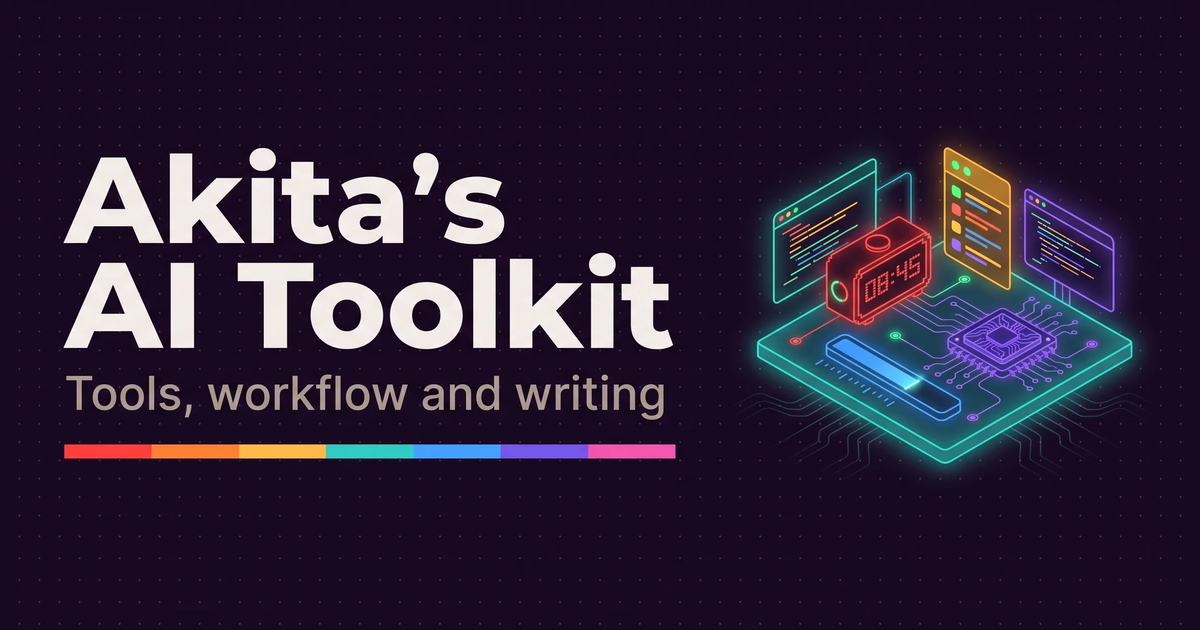
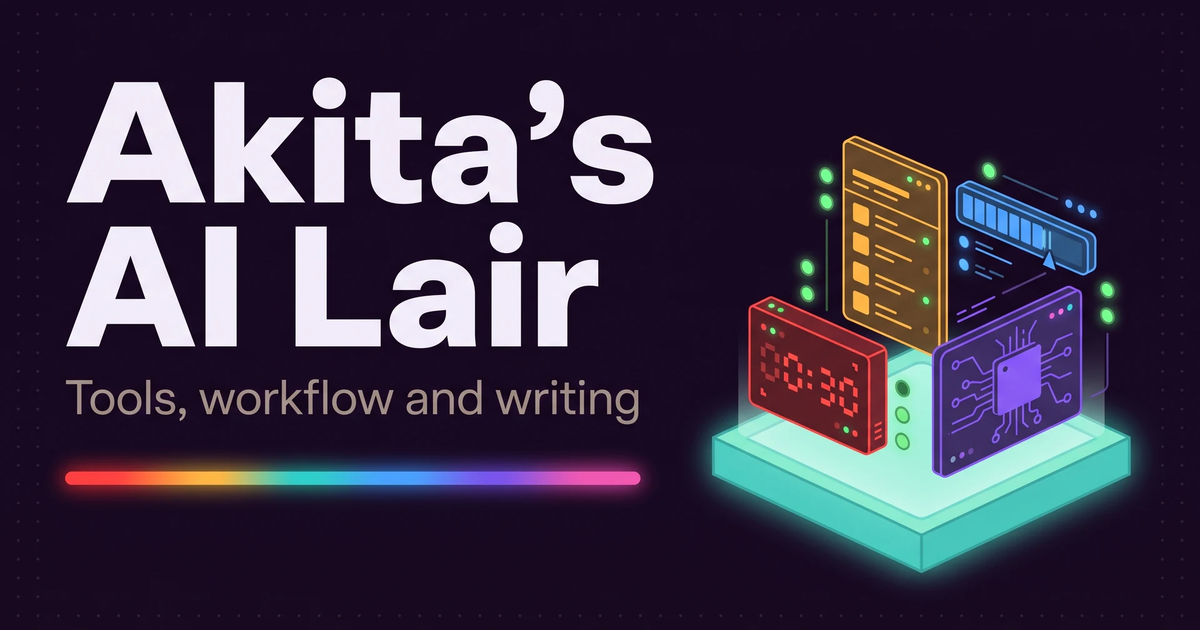
Rename to Akita's AI Lair at ailair.akitaonrails.com
Wordmark, titles, share card, structured data, robots.txt and docs. The
hero kicker: "A lair with the doors open". netlify.toml redirects the old
aitoolkit.akitaonrails.com host with a 301 (keep it as a domain alias).
Also in: Portuguese paths for every linked blog post (i18n prep).

diff --git a/src/data/articles.ts b/src/data/articles.ts
@@ -2,45 +2,50 @@
 // the address, date and subject stay here. Every address is the English edition on akitaonrails.com.
 import type { Hue } from './site';
 
-export interface Article { id: string; path: string; date: string; hue: Hue }
+export interface Article { id: string; path: string; ptPath?: string; date: string; hue: Hue }
 
 const blog = 'https://akitaonrails.com';
-export const articleUrl = (a: Article) => `${blog}${a.path}`;
+/** The blog publishes every post in English (under /en/) and Portuguese. Portuguese readers get the Portuguese post;
+    every other language gets the English one. `ptPath` comes from the post's folder in the blog repo. */
+export const articleUrl = (a: Article, locale?: string) => `${blog}${locale === 'pt-br' && a.ptPath ? a.ptPath : a.path}`;
+/** The blog's home and archive in the reader's language. */
+export const blogHome = (locale?: string) => (locale === 'pt-br' ? `${blog}/` : `${blog}/en/`);
+export const blogArchive = (locale?: string) => `${blogHome(locale)}archives/`;
 
 export const articles = {
-  benchmarkLatest: { path: '/en/2026/09/23/llm-benchmark-v4-opus-5-5-gpt-6-sol-luna-mimo-2-6-grok-4-7/', date: '2026-09-23', hue: 'rose' },
-  benchmarkPart1: { path: '/en/2026/09/15/new-llm-benchmark-v4-retesting-all-top-llms-part-1/', date: '2026-09-15', hue: 'rose' },
-  benchmarkPart2: { path: '/en/2026/09/15/new-llm-benchmark-v4-retesting-39-llms-part-2/', date: '2026-09-15', hue: 'rose' },
-  shipMore: { path: '/en/2026/09/22/stop-making-excuses-and-ship-more-the-premise-changed/', date: '2026-09-22', hue: 'violet' },
-  skills: { path: '/en/2026/09/17/talking-about-my-ai-skills/', date: '2026-09-17', hue: 'violet' },
-  nesToSms: { path: '/en/2026/09/07/ai-challenge-converting-nes-roms-to-master-system-sms/', date: '2026-09-07', hue: 'orange' },
-  aiMemory2: { path: '/en/2026/09/02/ai-memory-2-0-best-memory-system-for-agents-and-teams/', date: '2026-09-02', hue: 'teal' },
-  hotTake: { path: '/en/2026/08/18/hot-take-harness-loop-engineering-graph-engineering-are-bullshit/', date: '2026-08-18', hue: 'red' },
-  dayToDay: { path: '/en/2026/07/12/using-ai-to-solve-my-little-day-to-day-problems/', date: '2026-07-12', hue: 'amber' },
-  protect: { path: '/en/2026/07/11/how-to-protect-yourself-from-agents-deleting-your-stuff/', date: '2026-07-11', hue: 'orange' },
-  openSourceAi: { path: '/en/2026/06/05/ai-controversy-open-source-project-contributions-my-take/', date: '2026-06-05', hue: 'violet' },
-  bestPractices: { path: '/en/2026/05/30/open-source-best-practices-llm-the-minimum/', date: '2026-05-30', hue: 'blue' },
-  cleanCode: { path: '/en/2026/04/20/clean-code-for-ai-agents/', date: '2026-04-20', hue: 'blue' },
-  multiModel: { path: '/en/2026/04/18/llm-benchmarks-part-2-multi-model/', date: '2026-04-18', hue: 'rose' },
-  chronicles: { path: '/en/2026/02/16/vibe-code-zero-to-production-in-6-days-the-m-akita-chronicles/', date: '2026-02-16', hue: 'orange' },
-  aiKilled: { path: '/en/2026/02/08/rant-ai-killed-programmers/', date: '2026-02-08', hue: 'red' },
-  usagebarPost: { path: '/en/2026/05/24/i-built-a-waybar-widget-for-omarchy-to-monitor-llm-usage-ai-usagebar/', date: '2026-05-24', hue: 'blue' },
-  toolkitTips: { path: '/en/2026/05/24/akita-ai-tips-toolkit-ai-jail-ai-memory-ai-usagebar/', date: '2026-05-24', hue: 'violet' },
-  tuiPost: { path: '/en/2026/06/08/playing-with-tuis-llms-ratatui-bubbletea/', date: '2026-06-08', hue: 'red' },
-  memorySwitch: { path: '/en/2026/07/20/whats-new-ai-memory-switch-agents-without-losing-session/', date: '2026-07-20', hue: 'teal' },
-  ghpendingPost: { path: '/en/2026/05/23/i-built-a-cli-to-check-my-github-pending-stuff-ghpending/', date: '2026-05-23', hue: 'amber' },
-  githubBlock: { path: '/en/2026/06/11/bypassing-github-api-block-brazil/', date: '2026-06-11', hue: 'amber' },
-  bend2: { path: '/en/2026/09/19/new-ai-language-just-released-bend-2/', date: '2026-09-19', hue: 'red' },
-  memoryPost: { path: '/en/2026/05/23/i-built-memory-system-for-coding-agents-ai-memory/', date: '2026-05-23', hue: 'teal' },
-  jailUpdate: { path: '/en/2026/07/25/ai-jail-security-update-docker-opt-in/', date: '2026-07-25', hue: 'orange' },
-  typesafe: { path: '/en/2026/09/16/why-things-like-typesafe-ai-dont-interest-me/', date: '2026-09-16', hue: 'red' },
-  omarchyDualGpu: { path: '/en/2026/01/21/omarchy-3-dual-gpu-setup-with-amd-and-nvidia/', date: '2026-01-21', hue: 'blue' },
-  omarchyThinkpad: { path: '/en/2026/04/18/omarchy-on-thinkpad-t14-gen-6/', date: '2026-04-18', hue: 'blue' },
-  nwOmarchy: { path: '/en/2026/05/01/nw-omarchy-xlibre-inaugural/', date: '2026-05-01', hue: 'blue' },
-  emuDistrobox: { path: '/en/2026/04/11/emulation-distrobox-with-claude-code/', date: '2026-04-11', hue: 'orange' },
-  racingGames: { path: '/en/2026/04/19/my-favorite-retro-racing-games-on-distrobox/', date: '2026-04-19', hue: 'orange' },
-  marathon: { path: '/en/2026/05/14/wrapping-up-my-ai-marathon-success-or-failure/', date: '2026-05-14', hue: 'violet' },
-} satisfies Record<string, Omit<Article, 'id'>>;
+  benchmarkLatest: { path: '/en/2026/09/23/llm-benchmark-v4-opus-5-5-gpt-6-sol-luna-mimo-2-6-grok-4-7/', ptPath: '/2026/09/23/llm-benchmark-v4-opus-5-5-gpt-6-sol-luna-mimo-2-6-grok-4-7/', date: '2026-09-23', hue: 'rose' },
+  benchmarkPart1: { path: '/en/2026/09/15/new-llm-benchmark-v4-retesting-all-top-llms-part-1/', ptPath: '/2026/09/15/novo-llm-benchmark-v4-retestando-todos-llms-parte-1/', date: '2026-09-15', hue: 'rose' },
+  benchmarkPart2: { path: '/en/2026/09/15/new-llm-benchmark-v4-retesting-39-llms-part-2/', ptPath: '/2026/09/15/novo-llm-benchmark-v4-retestando-todos-llms-parte-2/', date: '2026-09-15', hue: 'rose' },
+  shipMore: { path: '/en/2026/09/22/stop-making-excuses-and-ship-more-the-premise-changed/', ptPath: '/2026/09/22/parem-de-inventar-desculpas-e-facam-mais-deploy-a-premissa-mudou/', date: '2026-09-22', hue: 'violet' },
+  skills: { path: '/en/2026/09/17/talking-about-my-ai-skills/', ptPath: '/2026/09/17/falando-um-pouco-sobre-minhas-skills-de-ia/', date: '2026-09-17', hue: 'violet' },
+  nesToSms: { path: '/en/2026/09/07/ai-challenge-converting-nes-roms-to-master-system-sms/', ptPath: '/2026/09/07/desafio-pra-ia-converter-roms-de-nes-pra-master-system-sms/', date: '2026-09-07', hue: 'orange' },
+  aiMemory2: { path: '/en/2026/09/02/ai-memory-2-0-best-memory-system-for-agents-and-teams/', ptPath: '/2026/09/02/ai-memory-2-0-melhor-sistema-memoria-agentes-e-times/', date: '2026-09-02', hue: 'teal' },
+  hotTake: { path: '/en/2026/08/18/hot-take-harness-loop-engineering-graph-engineering-are-bullshit/', ptPath: '/2026/08/18/hot-take-harness-loop-engineering-graph-engineering-sao-bullshit/', date: '2026-08-18', hue: 'red' },
+  dayToDay: { path: '/en/2026/07/12/using-ai-to-solve-my-little-day-to-day-problems/', ptPath: '/2026/07/12/usando-ia-pra-resolver-meus-probleminhas-do-dia-a-dia/', date: '2026-07-12', hue: 'amber' },
+  protect: { path: '/en/2026/07/11/how-to-protect-yourself-from-agents-deleting-your-stuff/', ptPath: '/2026/07/11/como-me-precaver-pros-meus-agentes-nao-apagarem-minhas-coisas/', date: '2026-07-11', hue: 'orange' },
+  openSourceAi: { path: '/en/2026/06/05/ai-controversy-open-source-project-contributions-my-take/', ptPath: '/2026/06/05/controversia-ia-contribuicoes-projetos-codigo-aberto-minha-opiniao/', date: '2026-06-05', hue: 'violet' },
+  bestPractices: { path: '/en/2026/05/30/open-source-best-practices-llm-the-minimum/', ptPath: '/2026/05/30/boas-praticas-projetos-codigo-aberto-llm-o-minimo/', date: '2026-05-30', hue: 'blue' },
+  cleanCode: { path: '/en/2026/04/20/clean-code-for-ai-agents/', ptPath: '/2026/04/20/clean-code-para-agentes-de-ia/', date: '2026-04-20', hue: 'blue' },
+  multiModel: { path: '/en/2026/04/18/llm-benchmarks-part-2-multi-model/', ptPath: '/2026/04/18/llm-benchmarks-parte-2-multiplos-modelos/', date: '2026-04-18', hue: 'rose' },
+  chronicles: { path: '/en/2026/02/16/vibe-code-zero-to-production-in-6-days-the-m-akita-chronicles/', ptPath: '/2026/02/16/vibe-code-do-zero-a-producao-em-6-dias-the-m-akita-chronicles/', date: '2026-02-16', hue: 'orange' },
+  aiKilled: { path: '/en/2026/02/08/rant-ai-killed-programmers/', ptPath: '/2026/02/08/rant-ia-acabou-com-programadores/', date: '2026-02-08', hue: 'red' },
+  usagebarPost: { path: '/en/2026/05/24/i-built-a-waybar-widget-for-omarchy-to-monitor-llm-usage-ai-usagebar/', ptPath: '/2026/05/24/criei-widget-waybar-omarchy-monitorar-uso-llms-ai-usagebar/', date: '2026-05-24', hue: 'blue' },
+  toolkitTips: { path: '/en/2026/05/24/akita-ai-tips-toolkit-ai-jail-ai-memory-ai-usagebar/', ptPath: '/2026/05/24/dicas-e-toolkit-de-ia-do-akita-ai-jail-ai-memory-ai-usagebar/', date: '2026-05-24', hue: 'violet' },
+  tuiPost: { path: '/en/2026/06/08/playing-with-tuis-llms-ratatui-bubbletea/', ptPath: '/2026/06/08/brincando-tui-llms-ratatui-bubbletea/', date: '2026-06-08', hue: 'red' },
+  memorySwitch: { path: '/en/2026/07/20/whats-new-ai-memory-switch-agents-without-losing-session/', ptPath: '/2026/07/20/novidades-no-meu-ai-memory-cada-vez-melhor-pra-usar-com-suas-ias/', date: '2026-07-20', hue: 'teal' },
+  ghpendingPost: { path: '/en/2026/05/23/i-built-a-cli-to-check-my-github-pending-stuff-ghpending/', ptPath: '/2026/05/23/criei-cli-pra-checar-pendencias-github-ghpending/', date: '2026-05-23', hue: 'amber' },
+  githubBlock: { path: '/en/2026/06/11/bypassing-github-api-block-brazil/', ptPath: '/2026/06/11/burlando-bloqueio-api-github-brasil/', date: '2026-06-11', hue: 'amber' },
+  bend2: { path: '/en/2026/09/19/new-ai-language-just-released-bend-2/', ptPath: '/2026/09/19/nova-linguagem-voltada-pra-ia-bend-2/', date: '2026-09-19', hue: 'red' },
+  memoryPost: { path: '/en/2026/05/23/i-built-memory-system-for-coding-agents-ai-memory/', ptPath: '/2026/05/23/criei-sistema-memoria-agentes-codigo-ai-memory/', date: '2026-05-23', hue: 'teal' },
+  jailUpdate: { path: '/en/2026/07/25/ai-jail-security-update-docker-opt-in/', ptPath: '/2026/07/25/ai-jail-update-seguranca-docker-opt-in/', date: '2026-07-25', hue: 'orange' },
+  typesafe: { path: '/en/2026/09/16/why-things-like-typesafe-ai-dont-interest-me/', ptPath: '/2026/09/16/por-que-coisas-como-typesafe-ia-nao-me-interessam/', date: '2026-09-16', hue: 'red' },
+  omarchyDualGpu: { path: '/en/2026/01/21/omarchy-3-dual-gpu-setup-with-amd-and-nvidia/', ptPath: '/2026/01/21/omarchy-3-setup-de-dual-gpus-com-amd-e-nvidia/', date: '2026-01-21', hue: 'blue' },
+  omarchyThinkpad: { path: '/en/2026/04/18/omarchy-on-thinkpad-t14-gen-6/', ptPath: '/2026/04/18/omarchy-no-thinkpad-t14-gen-6/', date: '2026-04-18', hue: 'blue' },
+  nwOmarchy: { path: '/en/2026/05/01/nw-omarchy-xlibre-inaugural/', ptPath: '/2026/05/01/omarchy-no-xlibre/', date: '2026-05-01', hue: 'blue' },
+  emuDistrobox: { path: '/en/2026/04/11/emulation-distrobox-with-claude-code/', ptPath: '/2026/04/11/distrobox-de-emulacao-com-claude-code/', date: '2026-04-11', hue: 'orange' },
+  racingGames: { path: '/en/2026/04/19/my-favorite-retro-racing-games-on-distrobox/', ptPath: '/2026/04/19/retrogames-de-corrida-favoritos-no-distrobox/', date: '2026-04-19', hue: 'orange' },
+  marathon: { path: '/en/2026/05/14/wrapping-up-my-ai-marathon-success-or-failure/', ptPath: '/2026/05/14/terminando-maratona-ia-sucesso-ou-fracasso/', date: '2026-05-14', hue: 'violet' },
+} satisfies Record<string, Omit<Article, 'id'> & { ptPath: string }>;
 
 export type ArticleId = keyof typeof articles;
 export const pick = (...ids: ArticleId[]): Article[] => ids.map((id) => ({ id, ...articles[id] }));

diff --git a/src/styles/global.css b/src/styles/global.css
@@ -74,7 +74,7 @@
 
 :root {
   --shadow: 0 1px 2px oklch(0.2 0.05 310 / 0.08), 0 12px 40px -12px oklch(0.2 0.05 310 / 0.25);
-  /* The toolkit spectrum: every subject hue in wheel order. Interpolated in OKLCH so the midpoints stay saturated. */
+  /* The site spectrum: every subject hue in wheel order. Interpolated in OKLCH so the midpoints stay saturated. */
   --spectrum: linear-gradient(90deg in oklch, var(--v-red), var(--v-amber), var(--v-teal), var(--v-blue), var(--v-violet), var(--v-rose));
   --radius: 1rem;
   color-scheme: light;

diff --git a/src/data/site.ts b/src/data/site.ts
@@ -1,9 +1,9 @@
 import reposJson from './repos.json';
 
 export const site = {
-  name: "Akita's AI Toolkit",
+  name: "Akita's AI Lair",
   // The production domain. astro.config.mjs reads it from here.
-  url: 'https://aitoolkit.akitaonrails.com',
+  url: 'https://ailair.akitaonrails.com',
   github: 'https://github.com/akitaonrails',
   blog: 'https://akitaonrails.com',
   // English posts live under /en/ on the blog; Portuguese is the blog's default.

diff --git a/src/styles/fonts-he.css b/src/styles/fonts-he.css
@@ -1,0 +1,2 @@
+@import '@fontsource-variable/rubik/wght.css';
+@import '@fontsource-variable/heebo/wght.css';

diff --git a/src/styles/fonts-ja.css b/src/styles/fonts-ja.css
@@ -1,0 +1,1 @@
+@import '@fontsource-variable/noto-sans-jp/wght.css';

diff --git a/src/styles/fonts-ko.css b/src/styles/fonts-ko.css
@@ -1,0 +1,1 @@
+@import '@fontsource-variable/noto-sans-kr/wght.css';

diff --git a/docs/deploy.md b/docs/deploy.md
@@ -6,7 +6,7 @@ The site is static Astro output, deployed by Netlify on every push to `main`. `n
 
 1. Push the repository to GitHub.
 2. Netlify: Add new project, Import an existing project, GitHub, pick the repo. Netlify reads `netlify.toml`; leave the fields as they are and deploy.
-3. Optional: name the project `aitoolkit` for `aitoolkit.netlify.app` while DNS propagates.
+3. Optional: name the project `ailair` for `ailair.netlify.app` while DNS propagates.
 
 Recommended: add a `GITHUB_TOKEN` environment variable (a fine-grained token with read-only access to public repositories, scope "Builds", marked secret). The build reads stars and releases from the GitHub API; without a token, Netlify's shared IPs often hit the anonymous limit and the build falls back to `src/data/github-snapshot.json`. It never fails because of it.
 
@@ -14,9 +14,13 @@ Recommended: add a `GITHUB_TOKEN` environment variable (a fine-grained token wit
 
 `akitaonrails.com` uses AWS Route 53 for DNS (checked 2026-09-23), and the blog itself is on Netlify.
 
-1. Netlify, the project, Domain management, Add a domain: `aitoolkit.akitaonrails.com`. Netlify will say it is an external domain; accept.
-2. Route 53, the `akitaonrails.com` hosted zone, Create record: name `aitoolkit`, type `CNAME`, value `<project-name>.netlify.app`, TTL 300.
+1. Netlify, the project, Domain management, Add a domain: `ailair.akitaonrails.com`. Netlify will say it is an external domain; accept.
+2. Route 53, the `akitaonrails.com` hosted zone, Create record: name `ailair`, type `CNAME`, value `<project-name>.netlify.app`, TTL 300.
 3. Back in Netlify, wait for the DNS check, then let it provision the Let's Encrypt certificate (HTTPS, Verify DNS configuration, Provision certificate).
+
+## The old address
+
+The site launched as Akita's AI Toolkit at `aitoolkit.akitaonrails.com`. `netlify.toml` redirects that host to `ailair.akitaonrails.com` with a 301, path included. For the redirect to fire, the old host must still reach Netlify: keep its Route 53 CNAME pointing at the Netlify project and add it in Netlify as a domain alias (Domain management, Add a domain alias).
 
 ## Analytics (optional)
 
@@ -30,7 +34,7 @@ npm run check:colors && npm run check:i18n && npm run build
 
 ## After launch
 
-- Add `https://aitoolkit.akitaonrails.com/sitemap-index.xml` to Google Search Console (a URL-prefix property works for a subdomain).
+- Add `https://ailair.akitaonrails.com/sitemap-index.xml` to Google Search Console (a URL-prefix property works for a subdomain).
 - Link the site from the GitHub profile README, the blog's About page and the tools' READMEs.
 - Check the share card at https://www.opengraph.xyz.
 

diff --git a/docs/seo.md b/docs/seo.md
@@ -4,7 +4,7 @@
 
 | Item | Where |
 |---|---|
-| A unique title per page, 60 characters or fewer with the " \| Akita's AI Toolkit" suffix (page titles in `meta.title` stay under about 39 characters); the home page uses `site.homeTitle` | `Base.astro`, each namespace's `meta` |
+| A unique title per page, 60 characters or fewer with the " \| Akita's AI Lair" suffix (page titles in `meta.title` stay under about 43 characters); the home page uses `site.homeTitle` | `Base.astro`, each namespace's `meta` |
 | A meta description per page, 140 to 160 characters | each namespace's `meta.description`, `common.json` `site.description` as the fallback |
 | Canonical URL on every page, trailing slash | `Base.astro`, `trailingSlash: 'always'` |
 | Open Graph and Twitter card with a 1200x630 image | `Base.astro`, `src/assets/img/og.png` |
@@ -20,7 +20,7 @@
 
 ## After launch
 
-1. Google Search Console: add `https://aitoolkit.akitaonrails.com/` as a URL-prefix property and submit `sitemap-index.xml`.
+1. Google Search Console: add `https://ailair.akitaonrails.com/` as a URL-prefix property and submit `sitemap-index.xml`.
 2. Bing Webmaster Tools: import from Search Console.
 3. Link to the site from the GitHub profile README, the blog's About page and each tool's README. Links from pages that already rank matter more than anything on the page.
 4. Check the share card at https://www.opengraph.xyz.

diff --git a/CLAUDE.md b/CLAUDE.md
@@ -1,6 +1,6 @@
-# aitoolkit.akitaonrails.com
+# ailair.akitaonrails.com
 
-Akita's AI Toolkit: one site for Fabio Akita's AI tools, workflow, writing, newsletter and podcast appearances. Astro 7, Tailwind 4, GSAP, deployed on Netlify. It is the umbrella over the sister sites `~/Projects/ai-jail-web` (aijail.io) and `~/Projects/ai-memory-web` and shares their structure and scripts.
+Akita's AI Lair: one site for Fabio Akita's AI tools, workflow, writing, newsletter and podcast appearances. Astro 7, Tailwind 4, GSAP, deployed on Netlify. It is the umbrella over the sister sites `~/Projects/ai-jail-web` (aijail.io) and `~/Projects/ai-memory-web` and shares their structure and scripts.
 
 Read before changing anything: `docs/design-system.md`, `docs/color-study.md`, `docs/sources.md`.
 

diff --git a/docs/design-system.md b/docs/design-system.md
@@ -1,6 +1,6 @@
 # Design system
 
-How pages on aitoolkit.akitaonrails.com are put together. Read this before adding or changing a page. It follows the same structure as the sister sites (`~/Projects/ai-jail-web`, `~/Projects/ai-memory-web`) with its own palette and type. Colors and type: [color-study.md](color-study.md).
+How pages on ailair.akitaonrails.com are put together. Read this before adding or changing a page. It follows the same structure as the sister sites (`~/Projects/ai-jail-web`, `~/Projects/ai-memory-web`) with its own palette and type. Colors and type: [color-study.md](color-study.md).
 
 ## The idea
 

diff --git a/README.md b/README.md
@@ -1,6 +1,6 @@
-# Akita's AI Toolkit
+# Akita's AI Lair
 
-Source of https://aitoolkit.akitaonrails.com: Fabio Akita's open source AI tools (ai-usagebar, ghpending, tclock, my-skills), the workflow that ties them to ai-memory, the LLM benchmark and writing, the newsletter and podcast appearances.
+Source of https://ailair.akitaonrails.com: Fabio Akita's open source AI tools (ai-usagebar, ghpending, tclock, my-skills), the workflow that ties them to ai-memory, the LLM benchmark and writing, the newsletter and podcast appearances.
 
 ```bash
 npm install
